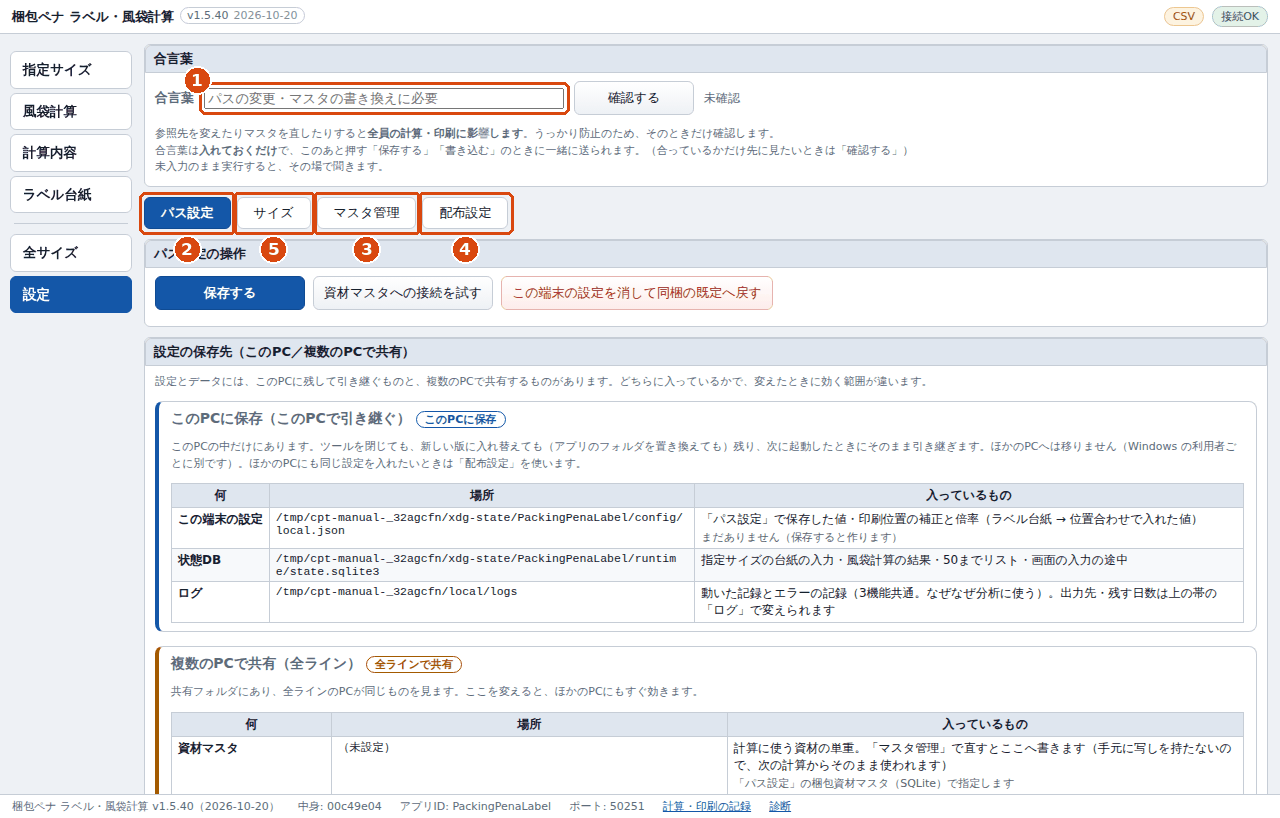
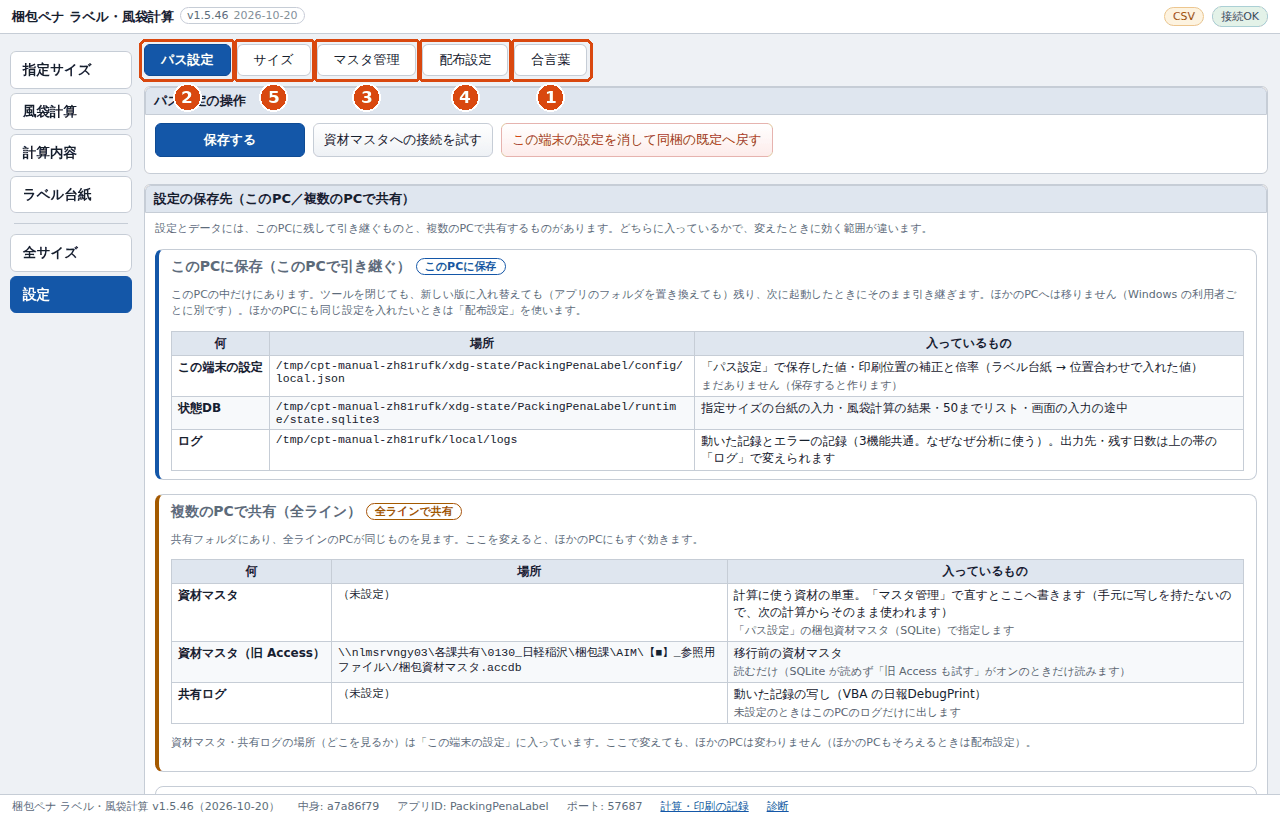
統合 1.2.46: ペナラベル 設定に「合言葉」のタブ(合言葉の欄とテストモード)
現場の指定: 合言葉のタブを作り、テストモード(実機の試験中)を置く。タブの上の合言葉と、
パス設定のテストモードは消す。
- 合言葉の欄は面を隠すだけで残るので、ほかのタブの「保存する」「書き込む」で一緒に送られる
  (入れずに押せばその場で聞く)。/settings#pw でこのタブを開く
- テストモードは専用の「テストモードを保存」で切り替え(合言葉が要る)。右上の札を読み直さずに
  出し入れする。パス設定の「保存する」では送らない
- 説明書(写真の撮り直し・合言葉のタブの写真)・ツール文書・試験・4M変化点の文書(No 30)

Claude-Session: https://claude.ai/code/session_01SzANNFLBT4btJLa5AqpmH3

Changed region(s): [[0.0938, 0.0306, 1.0, 1.0]]

diff --git a/templates/manual/pena.html b/templates/manual/pena.html
@@ -110,7 +110,7 @@
 <h2 id="settings"><small>6</small>設定</h2>
 {{ m.fig("pena-settings", "左のタブの「設定」。") }}
 <ol class="steps">
-  <li>{{ m.n(1) }}<b>合言葉</b>:フォルダやファイルの場所を変える・マスタを書き換える・配布設定を扱うときだけ要ります(印刷の位置合わせには要りません)。</li>
+  <li>{{ m.n(1) }}{{ m.b('合言葉') }}のタブ:合言葉の欄とテストモードがあります。合言葉はフォルダやファイルの場所を変える・マスタを書き換える・配布設定を扱うときだけ要ります(印刷の位置合わせには要りません)。ここに入れておくと、ほかのタブで押す「保存する」「書き込む」のときに一緒に送られます。入れずに押すと、その場で聞かれます。</li>
   <li>{{ m.n(2) }}{{ m.b('パス設定') }}:資材マスタの参照先・ラベル台紙など。変えたら {{ m.b('保存する') }}。{{ m.b('資材マスタへの接続を試す') }} で、保存せずに読めるか試せます。</li>
   <li><b>資材マスタ CSV・型番マスタ CSV</b>:{{ m.b('手本を出す') }} を押すと、欄に入れたパスへ列の見出しと例の行を出します(すでにあるファイルは上書きしません)。Excel で開いて直し、{{ m.b('この欄を保存') }}。読む順は<b>DB が先</b>で、DB(梱包資材マスタ。型番マスタは表「型番」)が無いときだけ CSV を読みます。欄の下に「いま読んでいる先」が出ます。</li>
   <li>{{ m.n(3) }}{{ m.b('マスタ管理') }}:資材マスタ(SQLite)の中身を見る・直す。</li>
@@ -130,6 +130,11 @@
   <li>{{ m.n(4) }}{{ m.b('サイズを足す') }}:合言葉が要ります。<b>共有の資材マスタ</b>に書くので、どのPCの指定サイズの画面にも出ます(ラベル台紙一覧に書き足す必要はありません)。</li>
 </ol>
 <div class="warn"><b>注意</b>サイズ(厚み・巾)はあとから直せません。間違えたときは、{{ m.b('マスタ管理') }} の表「ペナラベル追加サイズ」でそのサイズの {{ m.b('この行を消す') }} を押し(合言葉が要ります。どのPCにも出なくなります)、正しいものを足し直します。型番・記号・備考はそこで直せます。資材マスタが SQLite でないとき(CSV で動いているとき)は足せません。理由が画面に出ます。全サイズの画面の一覧にも出すときは、型番マスタにも同じサイズを足してください。</div>
+{{ m.fig("pena-settings-pw", "設定の「合言葉」。") }}
+<ol class="steps">
+  <li>{{ m.n(1) }}<b>合言葉</b>:入れておくと、ほかのタブで押す「保存する」「書き込む」「サイズを足す」などのときに一緒に送られます(タブを移っても消えません)。合っているかだけ見たいときは {{ m.b('確認する') }}。合言葉は担当者に聞いてください。</li>
+  <li>{{ m.n(2) }}<b>テストモード（実機の試験中）</b>:実機で試験するときだけチェックを入れて {{ m.b('テストモードを保存') }}(合言葉が要ります)。右上に赤い「テストモード」の札が出て、記録に「テストモード」と残ります。<b>試験が終わったら必ず切ります。</b></li>
+</ol>
 {{ m.fig("pena-settings-storage", "「設定の保存先（このPC／複数のPCで共有）」。") }}
 <p><b>このPCに保存</b>のもの(この端末の設定・印刷位置の補正・作業の状態)はこのPCだけで使います。<b>全ラインで共有</b>のもの(資材マスタ)を変えると、ほかのラインにも効きます。</p>
 <p>資材マスタは、<b>SQLite → Access(ACE)→ 同梱の CSV</b> の順に読める物を使います。どれを読んだかは右上の札に出ます。</p>
@@ -137,7 +142,7 @@
 <h2 id="version"><small>7</small>版を確かめる</h2>
 <p>ペナラベルの版は、画面の左上の「v{{ versions.pena }}」と、画面の下の帯に出ています。下の帯の {{ m.b('診断') }} を押すと、版・版を切った日・資材マスタをどこから読んだかなどがまとめて出ます。問い合わせのときに伝えてください。</p>
 <p>下の帯の {{ m.b('計算・印刷の記録') }} では、計算と印刷のたびに<b>どの取得元(SQLite / Access / CSV / 古い内容)の、いつ時点の資材重量</b>だったかが新しい順に見られます(この PC の分)。どの版で・どの PC(ライン)で、も出ます。<b>印刷画面</b>の行は印刷の画面を開いた記録で、刷った証拠にはなりません(刷ったか・やめたかはブラウザから分かりません)。<b>止めた印刷</b>は、入力が変わったまま印刷を止めた記録です。下には<b>資材マスタの編集履歴</b>(いつ・何を何から何に。このツールから直したときは誰が、も)が出ます。資材マスタ(SQLite)が直されると、資材マスタ自身が自動で書きます(ツールの外で直しても残ります)。記録は月ごとのファイルにも残り、設定の「計算・印刷の記録の保存先フォルダー」を入れるとそこにも PC ごとに書きます(この PC への保存はそのまま)。ファイルは<b>CSV で、Excel でそのまま開けます</b>(設定の「記録ファイルの形式」で JSONL・両方にもできます)。見るときは写しを開くか、読み取り専用で開いてください。設定の「ライン名（このPC）」を入れると、記録にライン名も残ります。<b>資材重量の変化</b>は、計算のときに読んだ資材重量が前と変わっていた記録です(ツールの外で直した分も分かります)。</p>
-<div class="warn"><b>テストモード</b>実機で試験するときは、設定の「テストモード（実機の試験中）」を入れます(合言葉が要ります)。記録と資材マスタの編集履歴に「テストモード」と残り、画面の右上に赤い「テストモード」の札が出ます。試験が終わったら必ず切ってください。</div>
+<div class="warn"><b>テストモード</b>実機で試験するときは、設定の {{ m.b('合言葉') }} のタブの「テストモード（実機の試験中）」にチェックを入れて {{ m.b('テストモードを保存') }} を押します(合言葉が要ります)。記録と資材マスタの編集履歴に「テストモード」と残り、画面の右上に赤い「テストモード」の札が出ます。試験が終わったら必ず切ってください。</div>
 
 <h2 id="trouble"><small>8</small>困ったとき</h2>
 <div class="tw"><table>

diff --git a/modules/packing_pena_label/app/static/css/app.css b/modules/packing_pena_label/app/static/css/app.css
@@ -412,6 +412,9 @@ legend{font-size:11px; color:var(--muted); padding:0 4px}
 .pwrow label{font-size:13px; font-weight:700; cursor:pointer}
 .pwrow input{flex:1 1 220px; width:auto; max-width:360px}
 .pwrow .btn{flex:0 0 auto; width:auto; min-width:120px; margin-bottom:0}
+/* テストモード(設定の「合言葉」のタブ。統合 1.2.46): チェックは欄のように広げない */
+.tmrow .switch{white-space:nowrap}
+.tmrow input[type=checkbox]{flex:0 0 auto; width:16px; max-width:none}
 /* 参照先の欄と「この欄を保存」を横に並べる */
 .setone{display:flex; gap:8px; align-items:center}
 .setone input[type=text]{flex:1 1 auto; min-width:0}

diff --git a/modules/packing_pena_label/app/routes/pages.py b/modules/packing_pena_label/app/routes/pages.py
@@ -1315,7 +1315,12 @@ class PageRoutes:
 
         items = S.describe(self.cfg)
         by_group = {}
+        test_mode_item = None
         for it in items:
+            # テストモードは「合言葉」のタブに置く(統合 1.2.46・現場の指定。パス設定には出さない)
+            if it["key"] == "test_mode":
+                test_mode_item = it
+                continue
             by_group.setdefault(it["group"], []).append(it)
 
         blocks = []
@@ -1356,13 +1361,14 @@ class PageRoutes:
             '<div id="setResult" class="hint" style="margin-top:10px"></div>')
 
         # 設定の中もページを分ける。
-        # 「パス設定」＝参照先の書き換え（合言葉が要る）
+        # 「パス設定」＝参照先の書き換え(合言葉が要る)
         # 「マスタ管理」＝資材マスタの中身を直す
-        # 合言葉は **サブタブより上**、どちらの面でも見える場所に置く。
-        #
-        # パス設定の面の中に入れると、マスタ管理の面を開いている間は
-        # 隠れてしまい、**マスタを直すときに合言葉を入れられない**。
-        # 一番上に固定して、どちらの操作でもそのまま使えるようにする。
+        # 「合言葉」＝合言葉を入れる欄とテストモード(統合 1.2.46・現場の指定。以前は合言葉の欄を
+        #   タブの上に置き、テストモードはパス設定にあった)。
+        # 合言葉の欄は**入れておけばタブを移っても残る**(面を隠すだけで欄は消えない)ので、
+        # 先に「合言葉」のタブで入れておけば、ほかのタブの「保存する」「書き込む」で一緒に送られる。
+        # 入れずに実行したときは、その場で聞く(どのタブからでも)。
+        tm_on = bool(test_mode_item and test_mode_item["value"])
         pw = (
             '<div class="card"><h2>合言葉</h2>'
             '<div class="pwrow">'
@@ -1375,11 +1381,23 @@ class PageRoutes:
             '<p class="hint">参照先を変えたりマスタを直したりすると'
             '<b>全員の計算・印刷に影響します</b>。'
             'うっかり防止のため、そのときだけ確認します。<br>'
-            '合言葉は<b>入れておくだけ</b>で、'
-            'このあと押す「保存する」「書き込む」のときに一緒に送られます。'
+            '合言葉は<b>ここに入れておくだけ</b>で、ほかのタブ(パス設定・サイズ・マスタ管理・配布設定)で押す'
+            '「保存する」「書き込む」のときに一緒に送られます(タブを移っても消えません)。'
             '（合っているかだけ先に見たいときは「確認する」）<br>'
             '未入力のまま実行すると、その場で聞きます。</p>'
-            '</div>')
+            '</div>'
+            f'<div class="card" id="tmCard"><h2>テストモード（実機の試験中） {_where("local")}</h2>'
+            '<p class="hint">実機の試験のときに入れる。計算・印刷の記録と資材マスタの編集履歴に「テストモード」と残し、'
+            '画面の右上に「テストモード」の札を出す(本番の記録と見分けられるように)。'
+            '<b>切り替えには合言葉が要る</b>(上の欄に入れておくか、押したときに聞きます)。'
+            '<b>試験が終わったら必ず切る。</b>このPCだけの設定で、配布設定には既定で入れません。</p>'
+            '<div class="pwrow tmrow">'
+            f'<label class="switch"><input type="checkbox" id="tmToggle"{" checked" if tm_on else ""}>'
+            '<span>テストモードにする</span></label>'
+            '<button type="button" class="btn btn-primary" id="tmSave">テストモードを保存</button>'
+            f'<span id="tmState" class="pwstate {"ng" if tm_on else ""}">'
+            f'{"いま: テストモード" if tm_on else "いま: 本番(切)"}</span>'
+            '</div></div>')
 
         # 操作ボタンはパス設定の面の**先頭**に置く。
         # 設定カードが 9 枚あるので、下に置くと画面外になってしまう。
@@ -1393,13 +1411,15 @@ class PageRoutes:
             '<button type="button" class="subtab" data-sub="sizes">サイズ</button>'
             '<button type="button" class="subtab" data-sub="master">マスタ管理</button>'
             '<button type="button" class="subtab" data-sub="dist">配布設定</button>'
+            '<button type="button" class="subtab" data-sub="pw">合言葉</button>'
             '</div>')
-        body = (pw + tabs
+        body = (tabs
                 + f'<div class="subpane" data-sub="paths">{paths}</div>'
                 + f'<div class="subpane" data-sub="sizes" hidden>{self._sizes_body()}</div>'
                 + f'<div class="subpane" data-sub="master" hidden>{master}</div>'
                 + f'<div class="subpane" data-sub="dist" hidden>'
-                  f'{self._distribution_body()}</div>')
+                  f'{self._distribution_body()}</div>'
+                + f'<div class="subpane" data-sub="pw" hidden>{pw}</div>')
         return self._shell("設定", body, "settings", self._settings_script())
 
     def _size_howto(self) -> str:
@@ -1421,7 +1441,7 @@ class PageRoutes:
             '<details class="card howto" id="sizeHowto"><summary>新しいサイズを足すには</summary>'
             '<ol class="howto-steps">'
             '<li>下の <b>「設定の「サイズ」を開く」</b> を押す(左のタブの「設定」→「サイズ」と同じ)。</li>'
-            '<li>画面の上の <b>合言葉</b> を入れる(サイズを足す・出すサイズを変えるときに要ります)。</li>'
+            '<li>設定の <b>「合言葉」</b> のタブで合言葉を入れる(サイズを足す・出すサイズを変えるときに要ります。入れずに押すとその場で聞きます)。</li>'
             '<li>「新しいサイズを足す」に <b>厚み(mm)・巾(mm)・型番</b> を入れて <b>「サイズを足す」</b>。'
             '記号・備考は任意(備考は指定サイズの画面に赤字で出ます)。</li>'
             '<li>足したサイズは、この一覧に <b>丈1・丈2 の 2 行</b>(台紙番号 15 から)で出て、'
@@ -1897,10 +1917,61 @@ class PageRoutes:
   });
 
   // ラベル台紙の「新しいサイズを足すには」から #sizes で来たら「サイズ」のタブを開く(統合 1.2.18)
-  if (location.hash === "#sizes") {
-    var st = document.querySelector('.subtab[data-sub="sizes"]');
+  // #pw で来たら「合言葉」のタブ(統合 1.2.46)
+  if (location.hash === "#sizes" || location.hash === "#pw") {
+    var st = document.querySelector('.subtab[data-sub="' + location.hash.slice(1) + '"]');
     if (st) { st.click(); }
   }
+
+  // --- テストモード(「合言葉」のタブ。統合 1.2.46)---
+  // 「パス設定」の「保存する」では送らない(data-key を付けない)。このボタンだけで切り替える
+  (function(){
+    var btn = document.getElementById("tmSave");
+    var box = document.getElementById("tmToggle");
+    if (!btn || !box) { return; }
+    function show(on){
+      var st = document.getElementById("tmState");
+      if (st) { st.textContent = on ? "いま: テストモード" : "いま: 本番(切)";
+                st.className = "pwstate " + (on ? "ng" : ""); }
+      // 右上の札も読み直さずに出し入れする
+      var right = document.querySelector(".appbar-right");
+      var badge = document.querySelector(".appbar-right .testmode");
+      if (on && !badge && right) {
+        badge = document.createElement("span");
+        badge.className = "testmode";
+        badge.title = "記録に「テストモード」と残します。試験が終わったら設定で切ってください";
+        badge.textContent = "テストモード";
+        right.insertBefore(badge, right.firstChild);
+      } else if (!on && badge) { badge.remove(); }
+    }
+    function send(password){
+      var body = {values: {test_mode: box.checked}};
+      if (password) { body.password = password; }
+      return pplPost("/api/settings/save", body).then(function(j){
+        if (j && j.needPassword) {
+          return pplAskPassword(j.message + "\\n\\n合言葉を入力してください").then(function(pw){
+            if (pw === null) { pplToast("テストモードの切り替えは取り消しました。", "warn"); return null; }
+            var b = document.getElementById("setPassword");
+            if (b) { b.value = pw; }
+            return send(pw);
+          });
+        }
+        return j;
+      });
+    }
+    btn.addEventListener("click", function(){
+      var pwBox = document.getElementById("setPassword");
+      btn.disabled = true;
+      send(pwBox ? pwBox.value : "").then(function(j){
+        if (!j) { return; }
+        if (!j.ok) { pplToast(j.message || "保存できませんでした", "warn"); return; }
+        show(box.checked);
+        pplToast(box.checked ? "テストモードにしました。試験が終わったら必ず切ってください。"
+                             : "テストモードを切りました(本番)。", box.checked ? "warn" : "info");
+      }).catch(function(e){ pplToast(String(e), "error"); })
+        .then(function(){ btn.disabled = false; });
+    });
+  })();
 
   // --- 合言葉の確認 ---
   // 入れただけでは合っているか分からないので、その場で ○× を出す。

diff --git a/modules/packing_pena_label/tests/test_http.py b/modules/packing_pena_label/tests/test_http.py
@@ -208,16 +208,26 @@ class TestSettingsScreen(HttpTestCase):
                         code.count('"') % 2, 0,
                         "%d 行目で文字列が閉じていない: %s" % (n, line.strip()[:70]))
 
-    def test_password_is_outside_the_subpanes(self):
-        """合言葉はどちらの面でも使えること。
+    def test_password_and_test_mode_are_in_the_password_tab(self):
+        """合言葉の欄とテストモードは「合言葉」のタブ(統合 1.2.46・現場の指定)。
 
-        パス設定の面の中に置くと、マスタ管理の面を開いている間は
-        隠れてしまい、**マスタを直すときに入力できない**。
+        - タブの上には合言葉の欄を置かない
+        - パス設定にテストモードを出さない(「保存する」でも送らない: data-key を付けない)
+        - 欄は面を隠すだけで消えないので、ほかのタブの「保存する」「書き込む」でも一緒に送られる
         """
         _, html = self.get("/settings")
-        head = html.split('<div class="subnav"', 1)[0]
-        self.assertIn("setPassword", head,
-                      "合言葉がサブタブより下（面の中）にある")
+        head, rest = html.split('<div class="subnav"', 1)
+        self.assertNotIn("setPassword", head, "タブの上に合言葉の欄が残っている")
+        self.assertIn('<button type="button" class="subtab" data-sub="pw">合言葉</button>', rest)
+        pane = rest.split('<div class="subpane" data-sub="pw" hidden>', 1)[1]
+        self.assertIn('id="setPassword"', pane)
+        self.assertIn('id="tmToggle"', pane)
+        self.assertIn('id="tmSave"', pane)
+        self.assertIn("テストモード（実機の試験中）", pane)
+        paths = rest.split('<div class="subpane" data-sub="paths">', 1)[1].split('<div class="subpane"', 1)[0]
+        self.assertNotIn("test_mode", paths, "パス設定にテストモードが残っている")
+        self.assertNotIn('data-key="test_mode"', html)
+        self.assertIn('location.hash === "#pw"', html)
 
     def test_save_button_is_near_the_top_of_the_paths_pane(self):
         """設定カード 9 枚の下に埋もれないこと。"""

diff --git a/tools/make_manual_shots.py b/tools/make_manual_shots.py
@@ -584,10 +584,11 @@ def pena_scene(app, ctx, sh, cam):
     fr.click('.appbar-nav a[href$="/settings"]')
     fr.wait_for_load_state()
     fr = sh.frame("pena")
-    E.wait_until(lambda: E.visible(fr, "#setPassword"), 10)
+    E.wait_until(lambda: E.visible(fr, ".subtab[data-sub=pw]"), 10)
     fr.wait_for_timeout(600)
+    # 合言葉の欄とテストモードは「合言葉」のタブ(統合 1.2.46)
     cam.take("pena-settings", pg, clip=clip, marks=[
-        (1, box_of(fr, "#setPassword")), (2, box_of(fr, ".subtab[data-sub=paths]"), "b"),
+        (1, box_of(fr, ".subtab[data-sub=pw]"), "b"), (2, box_of(fr, ".subtab[data-sub=paths]"), "b"),
         (3, box_of(fr, ".subtab[data-sub=master]"), "b"), (4, box_of(fr, ".subtab[data-sub=dist]"), "b"),
         (5, box_of(fr, ".subtab[data-sub=sizes]"), "b")])
     # 設定の「サイズ」(統合 1.2.16): 出すサイズのチェックと、サイズを足す
@@ -599,6 +600,11 @@ def pena_scene(app, ctx, sh, cam):
     fr.wait_for_timeout(300)
     cam.take("pena-settings-size-add", pg, clip=clip, marks=[
         (3, box_of(fr, ".sizeform"), "t"), (4, box_of(fr, "#szAdd"), "r")])
+    # 設定の「合言葉」(統合 1.2.46): 合言葉の欄とテストモード
+    fr.click('.subtab[data-sub="pw"]')
+    fr.wait_for_timeout(300)
+    cam.take("pena-settings-pw", pg, clip=clip, marks=[
+        (1, box_of(fr, "#setPassword"), "r"), (2, box_of(fr, "#tmCard"), "l")])
     fr.click('.subtab[data-sub="paths"]')
     fr.wait_for_timeout(300)
     fr.locator("#storage").scroll_into_view_if_needed()

diff --git a/modules/packing_pena_label/app/config.py b/modules/packing_pena_label/app/config.py
@@ -18,7 +18,7 @@ from typing import Any, Dict, List, Optional
 #: アプリケーションID（ローカル領域のフォルダ名、多重起動判定、/api/health の識別子）
 APP_ID = "PackingPenaLabel"
 APP_NAME = "梱包ペナ ラベル・風袋計算"
-APP_VERSION = "1.5.45"
+APP_VERSION = "1.5.46"
 #: 版を切った日。画面のバージョン表示に添える。
 #: **中身を直したら必ずここを上げる**。上げ忘れると、
 #: 現場が「新しいファイルに差し替わったか」を画面から判断できない。

diff --git a/docs/ツール文書/21_ペナラベル_仕様.md b/docs/ツール文書/21_ペナラベル_仕様.md
@@ -1,6 +1,6 @@
 # ペナラベル 仕様
 
-対象の版: ペナラベル 1.5.45(コイル梱包ツール 1.2.45)
+対象の版: ペナラベル 1.5.46(コイル梱包ツール 1.2.46)
 
 この文書は、ペナラベル(梱包ペナ ラベル・風袋計算)が **何をするか・どこから何を読むか・どう計算するか** をまとめたものです。
 書いてあることはコードで確かめています。確かめられなかったことは「(未確認)」と書いています。
@@ -36,7 +36,7 @@
 | 計算内容 | `/breakdown` | 1 梱包ぶんの値と計算式の内訳(VBA の「表記用」)と資材マスタの一覧 | 同上 |
 | ラベル台紙 | `/labels` | 台紙(丈ごと)の一覧と「表示」「印刷」。下に「新しいサイズを足すには」 | 同上 |
 | 全サイズ | `/all-size` | 型番マスタからサイズを選んでラベルを作る | 別の画面 |
-| 設定 | `/settings` | 合言葉・パス設定・サイズ・マスタ管理・配布設定 | 別の画面 |
+| 設定 | `/settings` | パス設定・サイズ・マスタ管理・配布設定・合言葉(タブ。1.5.46 で合言葉の欄をタブの上から「合言葉」のタブへ) | 別の画面 |
 
 - 「風袋計算」「計算内容」「ラベル台紙」は、指定サイズの入力をそのまま残して表示だけ差し替えます(`app.js` の画面の切替。`?pane=1` で中身だけ取ります)。
 - 「計算内容」は、上に並ぶ梱包ごとのボタン(`?coil=N`)で選んだ梱包を出します(選んでいるボタンは色付き)。指定が無い・計算していない番号なら、番号のいちばん小さい梱包(VBA が最後に計算した梱包)を出します(1.5.29 で直しました。以前はボタンの指定を読まず、どれを押しても最小番号の梱包が出ていました)。
@@ -49,7 +49,7 @@
   - ラベルに載らない梱包(隠れている丈・NW が無い)は `notOnLabel` に分けて残し、画面では灰色で出す(「NW 0 の梱包」に見えないように)
   - **資材マスタの編集履歴**: 資材マスタ(SQLite)の表 資材重量・ラベル台紙一覧・ペナラベル追加サイズ・型番 に**仕掛け(トリガー)**を入れ、直されたら**資材マスタ自身が自動で**、直した日時・どの表のどの行の・どの列を何から何にを表「資材マスタ編集履歴」に書く(1.5.42。`master_admin.ensure_triggers`。起動時に書ける資材マスタへ入れ、列が変わったら作り直す)。このツールのマスタ管理で直しても、DB を直に開く道具で直しても残る。このツールから直したときは同じ行に PC 名・ライン・利用者名・モードを足す(`fill_who`。2 重には書かない)。ツールの外で直したときは「誰が」は空。記録の画面の下に出す(全ライン)。Access・CSV のときは残らない(1.5.40〜1.5.41 はツールから直したときだけ、ツールが書いていた)。仕掛けを入れた・入れ直したときは「自動記録を開始」の行を残す(表を入れ替える=作り直すと仕掛けも消えるので、入れ直した時点と行数が分かるように。その間の編集は残らない)。運用: Access から SQLite へ直接変換はしない。表の入れ替え・追加はその機能で行う(現場の決め)
   - **資材重量の変化**(1.5.41): 計算・羅列計算のたびに読んだ資材重量(単位質量・係数)を前に読んだときと比べ、変わった資材と前・後を記録に残す(`Workflow._note_material_changes`。比べる相手は状態DB の `material_snapshot`)。ツールの外(Access など)で直した分も、この PC が次に計算したときに分かる
-  - **テストモード**(1.5.41): 設定「テストモード（実機の試験中）」(合言葉が要る。配布設定には既定で入れない)を入れると、記録と資材マスタの編集履歴に「テストモード」と残し(`who()["mode"]`・編集履歴の列「モード」)、どの画面にも右上に赤い「テストモード」の札を出す。記録の画面では行に札を付ける
+  - **テストモード**(1.5.41): 設定の「合言葉」のタブの「テストモード（実機の試験中）」(合言葉が要る。配布設定には既定で入れない。1.5.46 でパス設定から移した。専用の「テストモードを保存」で切り替え、パス設定の「保存する」では送らない)を入れると、記録と資材マスタの編集履歴に「テストモード」と残し(`who()["mode"]`・編集履歴の列「モード」)、どの画面にも右上に赤い「テストモード」の札を出す。記録の画面では行に札を付ける
 
 ### 2.1 指定サイズの画面の中身
 
@@ -456,8 +456,9 @@ Code39 は、英数字と `- . 空白 $ / + %` を表せるバーコードの規
 | 参照先 | 資材マスタの参照先フォルダー(直下に `梱包資材マスタ.accdb`) | `config/app.json` の値 |
 | | 共有ログの出力先フォルダー | 空(この PC のログだけ) |
 | | 計算・印刷の記録の保存先フォルダー(1.5.40) | 空(この PC の records にだけ書く) |
+| | 記録ファイルの形式(1.5.44。CSV・JSONL・両方) | CSV |
 | | ライン名（このPC）(1.5.40。配布設定には既定で入れない) | 空(PC 名だけを残す) |
-| | テストモード（実機の試験中）(1.5.41。合言葉が要る。配布設定には既定で入れない) | 切 |
+| 合言葉(タブ) | テストモード（実機の試験中）(1.5.41。合言葉が要る。配布設定には既定で入れない。1.5.46 でパス設定からこのタブへ) | 切 |
 | マスタの差し替え | サイズ構成マスタ(JSON) | 同梱 `data/size_master.json` |
 | | 梱包資材マスタ(SQLite) | 未設定 |
 | | 資材マスタ CSV / 型番マスタ CSV(「手本を出す」つき) | 同梱の CSV |

diff --git a/docs/ツール文書/22_ペナラベル_操作説明.md b/docs/ツール文書/22_ペナラベル_操作説明.md
@@ -1,6 +1,6 @@
 # ペナラベル 操作説明
 
-対象の版: ペナラベル 1.5.45(コイル梱包ツール 1.2.45)
+対象の版: ペナラベル 1.5.46(コイル梱包ツール 1.2.46)
 
 ペナラベルは、テスラ向けの出荷ラベル(小ラベル)を刷り、梱包の風袋(梱包資材の重さ)・NW(コイルの重さ)・GW(総重量)・高さを計算する機能です。
 統合画面の **ペナラベル** タブで使います。現場向けの説明書(統合画面の「説明書」、`templates/manual/pena.html`)と同じ流れを、文章で詳しく書いています。
@@ -195,19 +195,19 @@
 
 下の帯の **計算・印刷の記録** では、計算と印刷のたびに、どの取得元(SQLite / Access / CSV / 古い内容)の、いつ時点の資材重量だったかが新しい順に見られます(この PC の分)。どの版で・どの PC(ライン)で、も出ます。種類の **印刷画面** は印刷の画面を開いた記録で、刷った証拠にはなりません。**止めた印刷** は、入力が変わったまま印刷を止めた記録です。下には **資材マスタの編集履歴**(いつ・何を何から何に。このツールから直したときは誰が、も)が出ます。資材マスタ(SQLite)が直されると、資材マスタ自身が自動で書きます(ツールの外で直しても残ります)。記録は月ごとのファイルにも残り、設定の **計算・印刷の記録の保存先フォルダー** を入れるとそこにも PC ごとに書きます(この PC への保存はそのまま)。ファイルは **CSV で、Excel でそのまま開けます**(設定の **記録ファイルの形式** で JSONL・両方にもできます)。見るときは写しを開くか、読み取り専用で開いてください。Excel で開いている間に書けなかった分は「追記待ち」に足し、閉じたあと次の記録で書き足します。設定の **ライン名（このPC）** を入れると、記録にライン名も残ります。**資材重量の変化** は、計算のときに読んだ資材重量が前と変わっていた記録です(ツールの外で直した分も分かります)。
 
-**テストモード**: 実機で試験するときは、設定の **テストモード（実機の試験中）** を入れます(合言葉が要ります)。記録と資材マスタの編集履歴に「テストモード」と残り、画面の右上に赤い「テストモード」の札が出ます。**試験が終わったら必ず切ります。**
+**テストモード**: 実機で試験するときは、設定の **合言葉** のタブの **テストモード（実機の試験中）** にチェックを入れて **テストモードを保存** を押します(合言葉が要ります)。記録と資材マスタの編集履歴に「テストモード」と残り、画面の右上に赤い「テストモード」の札が出ます。**試験が終わったら必ず切ります。**
 
 ---
 
 ## 7. 設定
 
-左のタブの **設定** を開きます。一番上が **合言葉** の欄で、その下に「パス設定」「サイズ」「マスタ管理」「配布設定」のタブがあります。
+左のタブの **設定** を開きます。「パス設定」「サイズ」「マスタ管理」「配布設定」「合言葉」のタブがあります(1.5.46。合言葉の欄とテストモードは **合言葉** のタブにあります)。
 
 ### 7.1 合言葉
 
 フォルダーやファイルの場所を変える・マスタを書き換える・出すサイズを変える・サイズを足す・配布設定を扱うときだけ要ります。印刷の位置合わせには要りません。
 
-- 欄に入れておくと、そのあとの「保存する」「書き込む」などのときに一緒に送られます。
+- **合言葉** のタブの欄に入れておくと、ほかのタブで押す「保存する」「書き込む」などのときに一緒に送られます(タブを移っても消えません)。
 - 合っているかだけ見たいときは **確認する** を押します。
 - 入れずに押すと、伏せ字の窓で聞かれます。
 - 合言葉は担当者に聞いてください(この文書には書きません)。

diff --git a/modules/packing_pena_label/docs/変更履歴.md b/modules/packing_pena_label/docs/変更履歴.md
@@ -16,6 +16,19 @@
 
 ---
 
+## 1.5.46 — 設定に「合言葉」のタブ(コイル梱包ツール 1.2.46)
+
+現場の指定: 合言葉のタブを作り、テストモード(実機の試験中)を置く。タブの上の合言葉と、パス設定のテストモードは消す。
+
+1. 設定のタブを「パス設定・サイズ・マスタ管理・配布設定・**合言葉**」にした。合言葉の欄(確認する)とテストモードは「合言葉」のタブ
+2. 合言葉の欄は面を隠すだけで消えないので、「合言葉」のタブで入れておけば、ほかのタブの「保存する」「書き込む」「サイズを足す」で
+   一緒に送られる。入れずに押したときは、いままでどおり伏せ字の窓で聞く
+3. テストモードは専用の「テストモードを保存」で切り替える(合言葉が要る)。パス設定の「保存する」では送らない(`data-key` を付けない)。
+   保存したら右上の「テストモード」の札を読み直さずに出し入れする
+4. `/settings#pw` で「合言葉」のタブを開く。説明書の写真(設定・合言葉)を撮り直した
+
+---
+
 ## 1.5.45 — チップボールの自動選択も第2パスを探す(コイル梱包ツール 1.2.45)
 
 現場の指摘(資材計算): 第1パスが読めても検入数・外径が埋まらないことがある。空なら第2パスも探してほしい。

diff --git a/docs/変更履歴.md b/docs/変更履歴.md
@@ -22,6 +22,13 @@
 
 ## 履歴
 
+### 1.2.46
+
+- ペナラベル 1.5.46: 設定に **「合言葉」のタブ** を作り、合言葉の欄と **テストモード（実機の試験中）** をそこへ移した(現場の指定)。
+  タブの上の合言葉の欄と、パス設定のテストモードは消した。合言葉はタブを移っても消えないので、「合言葉」のタブで入れておけば
+  ほかのタブの「保存する」「書き込む」で一緒に送られる(入れずに押せばその場で聞く。いままでどおり)。テストモードは
+  専用の「テストモードを保存」で切り替え(合言葉が要る。右上の札は読み直さずに出し入れする)、パス設定の「保存する」では送らない
+
 ### 1.2.45
 
 - 資材計算 0.2.30: **第1パスが読めても、検入数(本)・コイル外径(mm)が埋まらないことがあった**のを直した(現場の指摘)。
